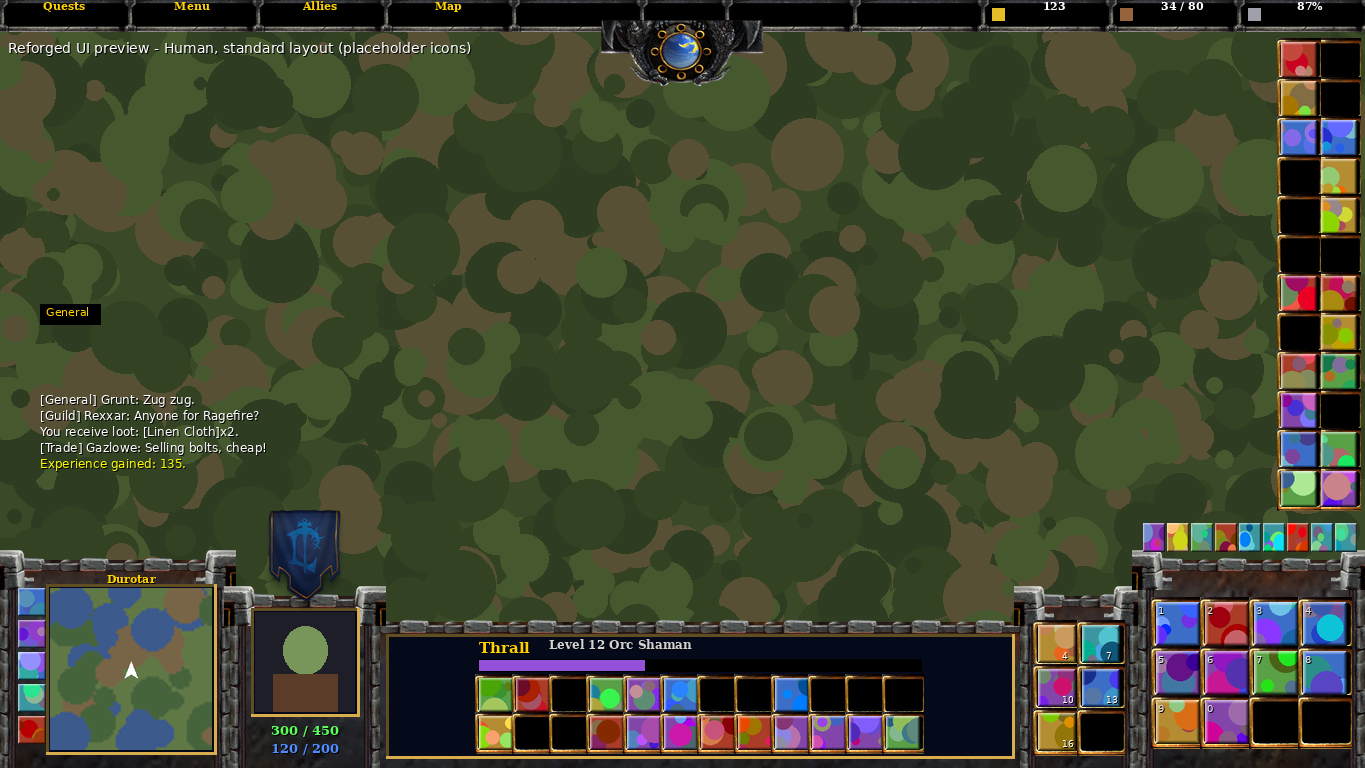
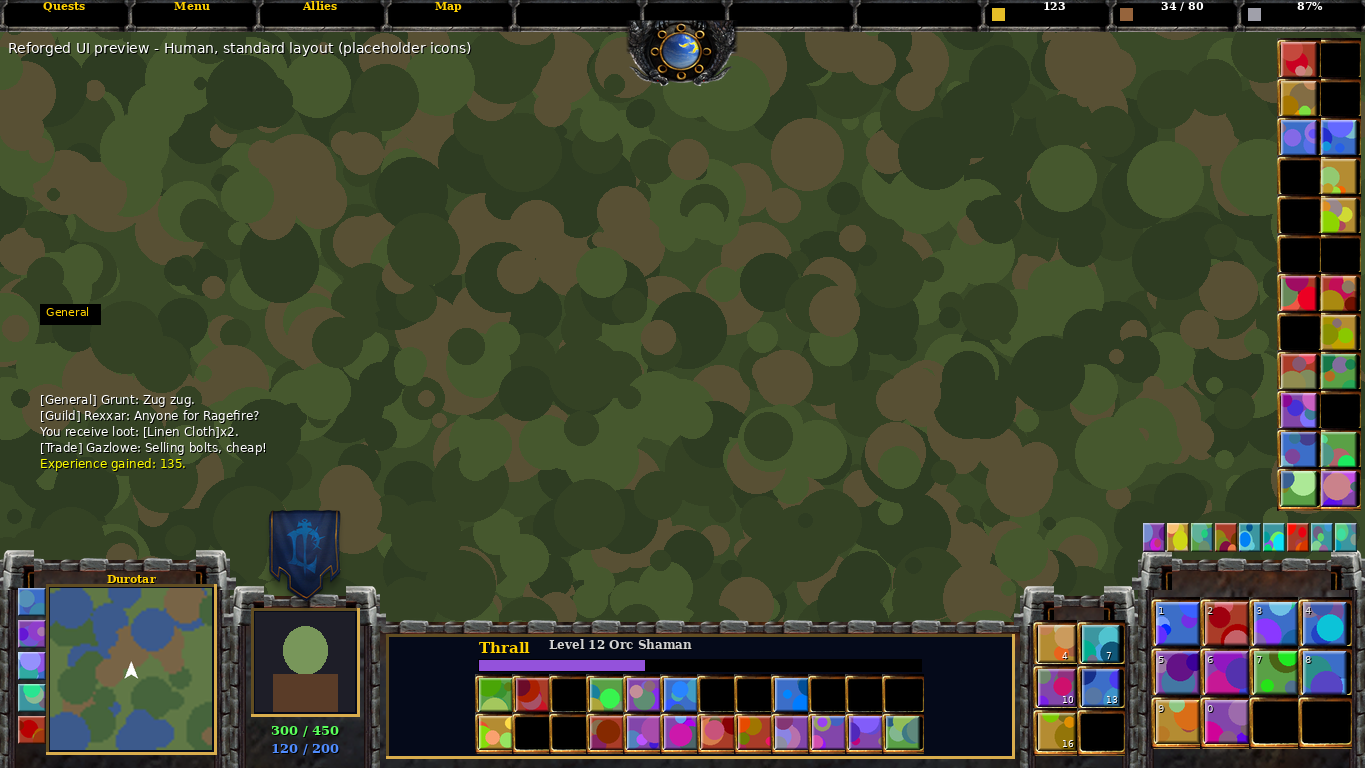
Fix mirrored console corner caps
The extracted corner art is drawn for the top-right corner, so mirror it
for the left instead of the right.

Claude-Session: https://claude.ai/code/session_01MegZrViDEDB2pBaA6M8VJg

diff --git a/tools/render_preview.py b/tools/render_preview.py
@@ -112,8 +112,8 @@ def panel(c, faction, r, corners):
     c.tile(edgev, r["x"], r["y"], 16, r["h"] - 14, 16, 64)
     c.tile(edgev.transpose(Image.FLIP_LEFT_RIGHT), r["x"] + r["w"] - 16, r["y"], 16, r["h"] - 14, 16, 64)
     if corners:
-        c.paste(corner, r["x"] - 6, r["y"] + r["h"] - 34, 40, 40)
-        c.paste(corner.transpose(Image.FLIP_LEFT_RIGHT), r["x"] + r["w"] - 34, r["y"] + r["h"] - 34, 40, 40)
+        c.paste(corner.transpose(Image.FLIP_LEFT_RIGHT), r["x"] - 6, r["y"] + r["h"] - 34, 40, 40)
+        c.paste(corner, r["x"] + r["w"] - 34, r["y"] + r["h"] - 34, 40, 40)
 
 
 def top_bar(c, faction, theme, L, hour):

diff --git a/ReforgedUI/Media/README.md b/ReforgedUI/Media/README.md
@@ -9,7 +9,7 @@ name replaces the generated art. Sizes must stay powers of two.
 | `panel` | 256x256 | Tiled fill of the console panels |
 | `edge` | 128x32 | Top trim, tiled horizontally; outer side at the top |
 | `edgev` | 32x128 | Side trim, tiled vertically; outer side on the left |
-| `corner` | 64x64 | Corner ornament for the top-left corner (mirrored for the right) |
+| `corner` | 64x64 | Corner ornament for the top-right corner (mirrored for the left) |
 | `well` | 64x64 | Socket behind each action, inventory and bag slot |
 | `crest` | 256x256 | Faction emblem above the portrait |
 | `clockframe` | 256x128 | Frame around the day/night clock under the top bar; the dial's centre is the top-middle of the texture (4 units down at 176x88) |
